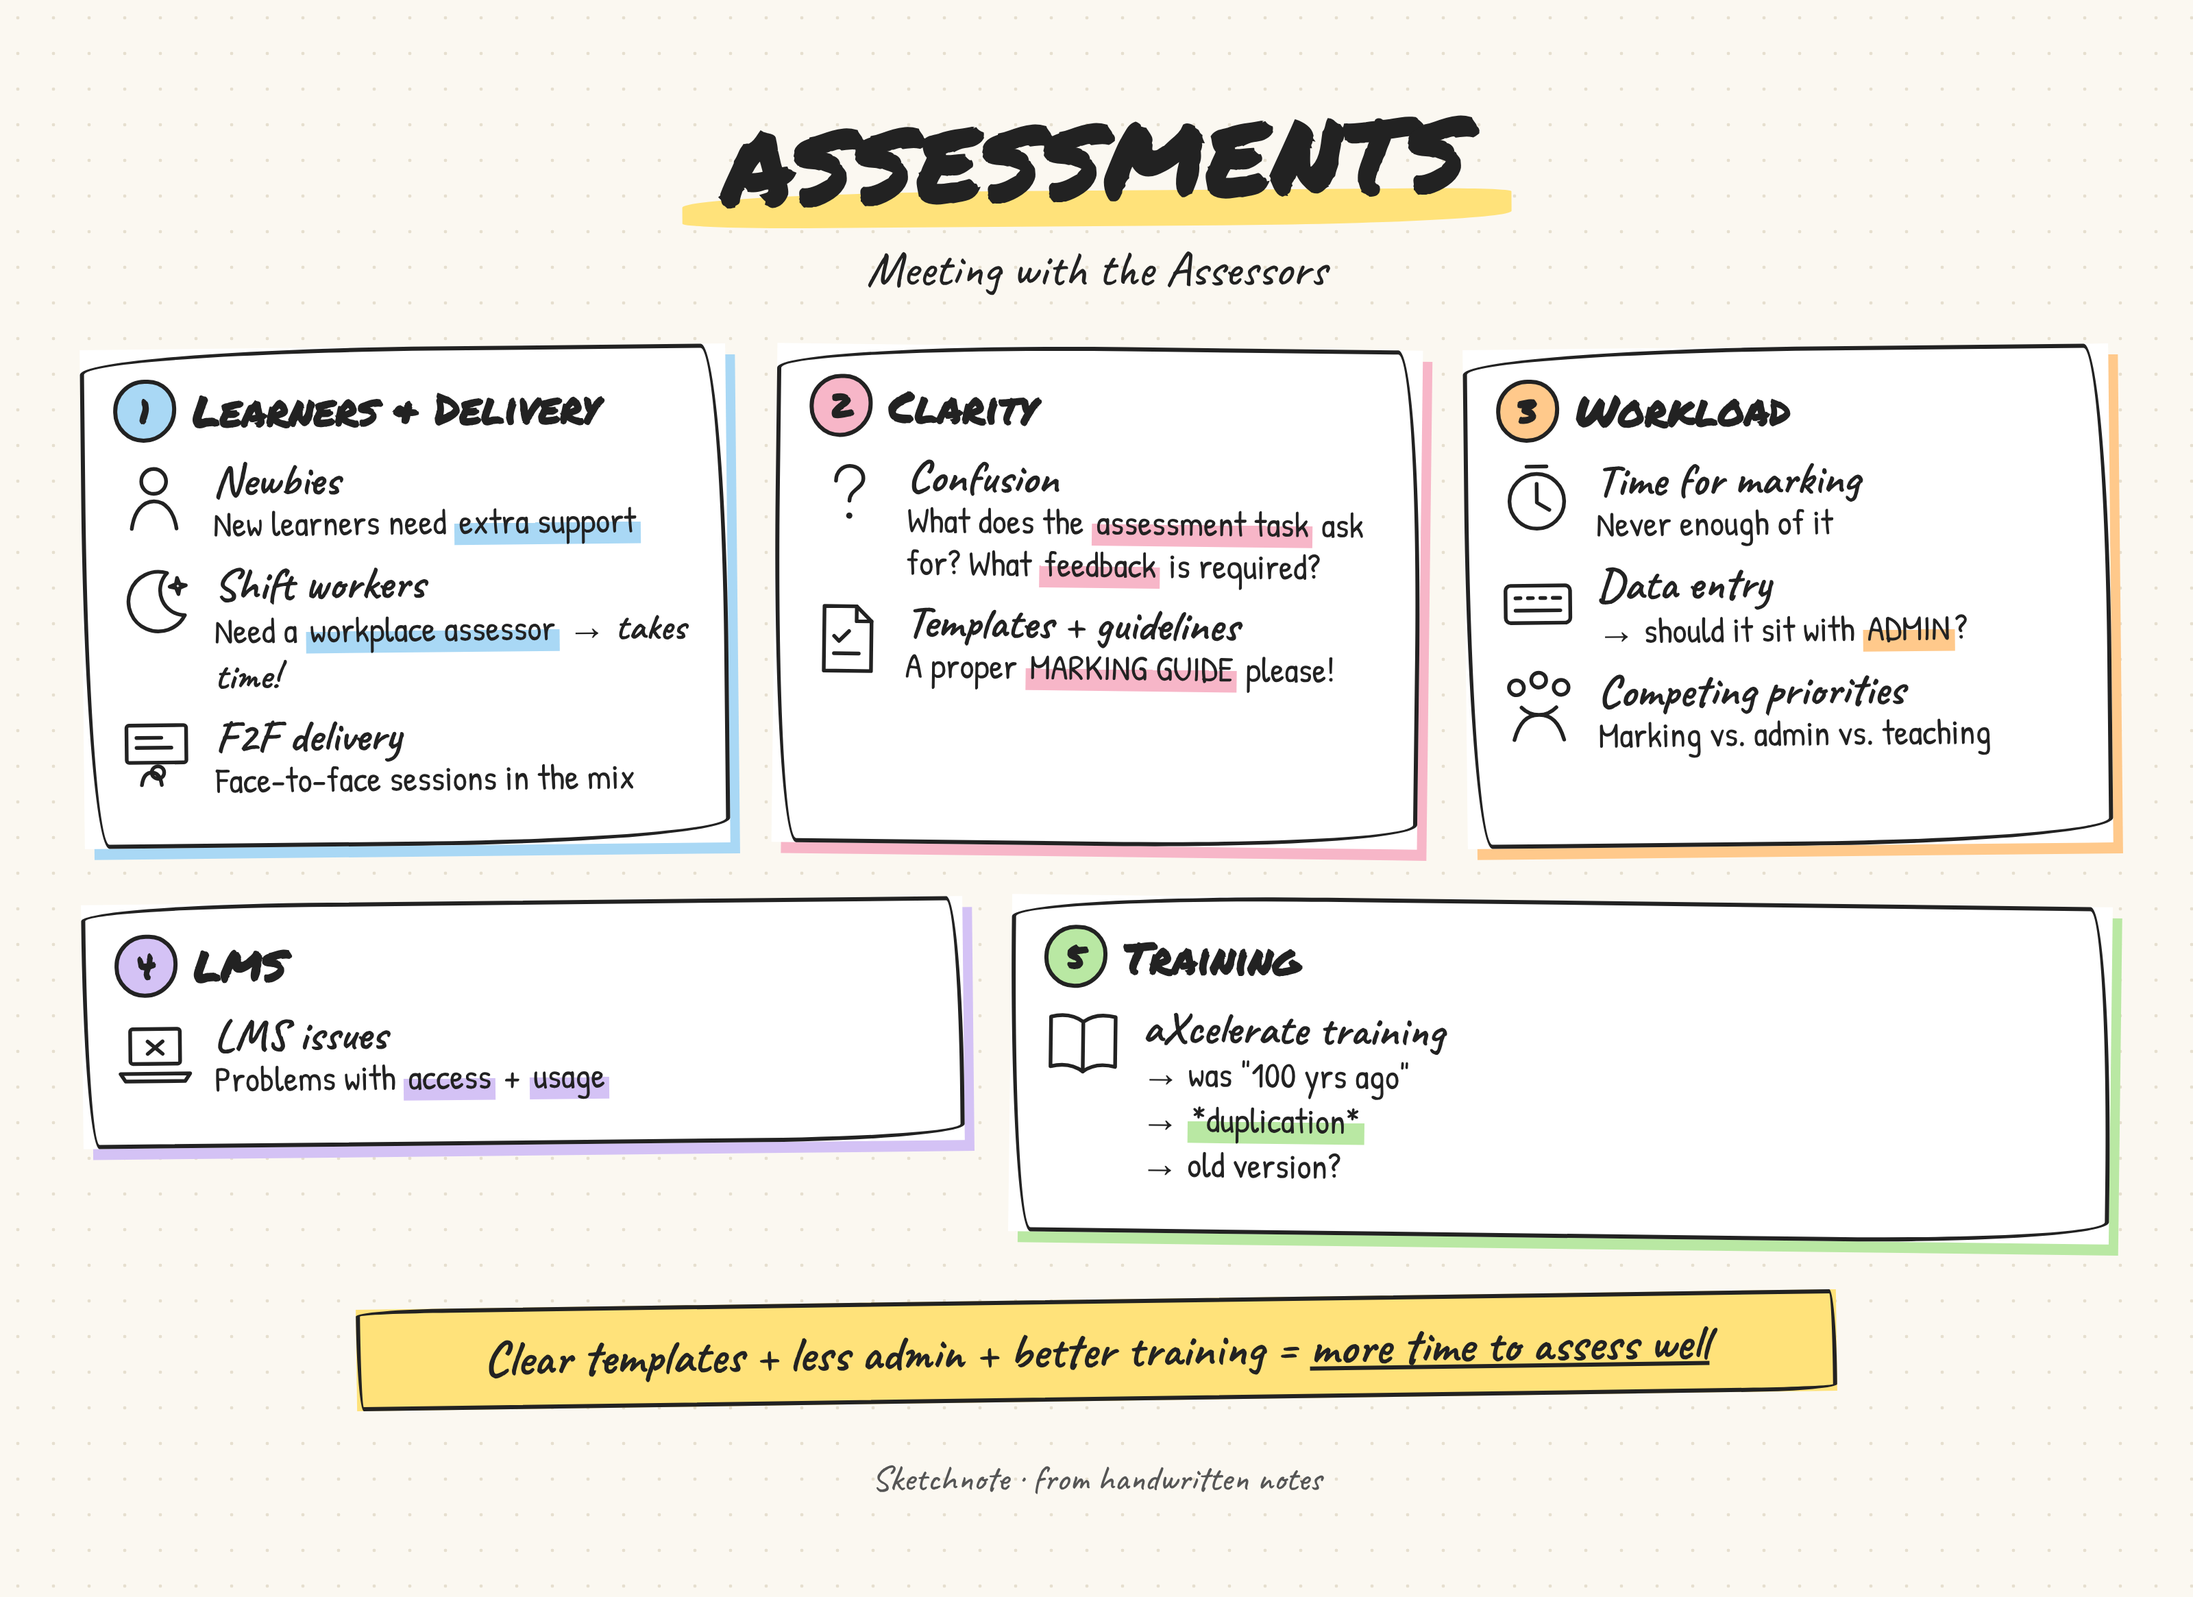
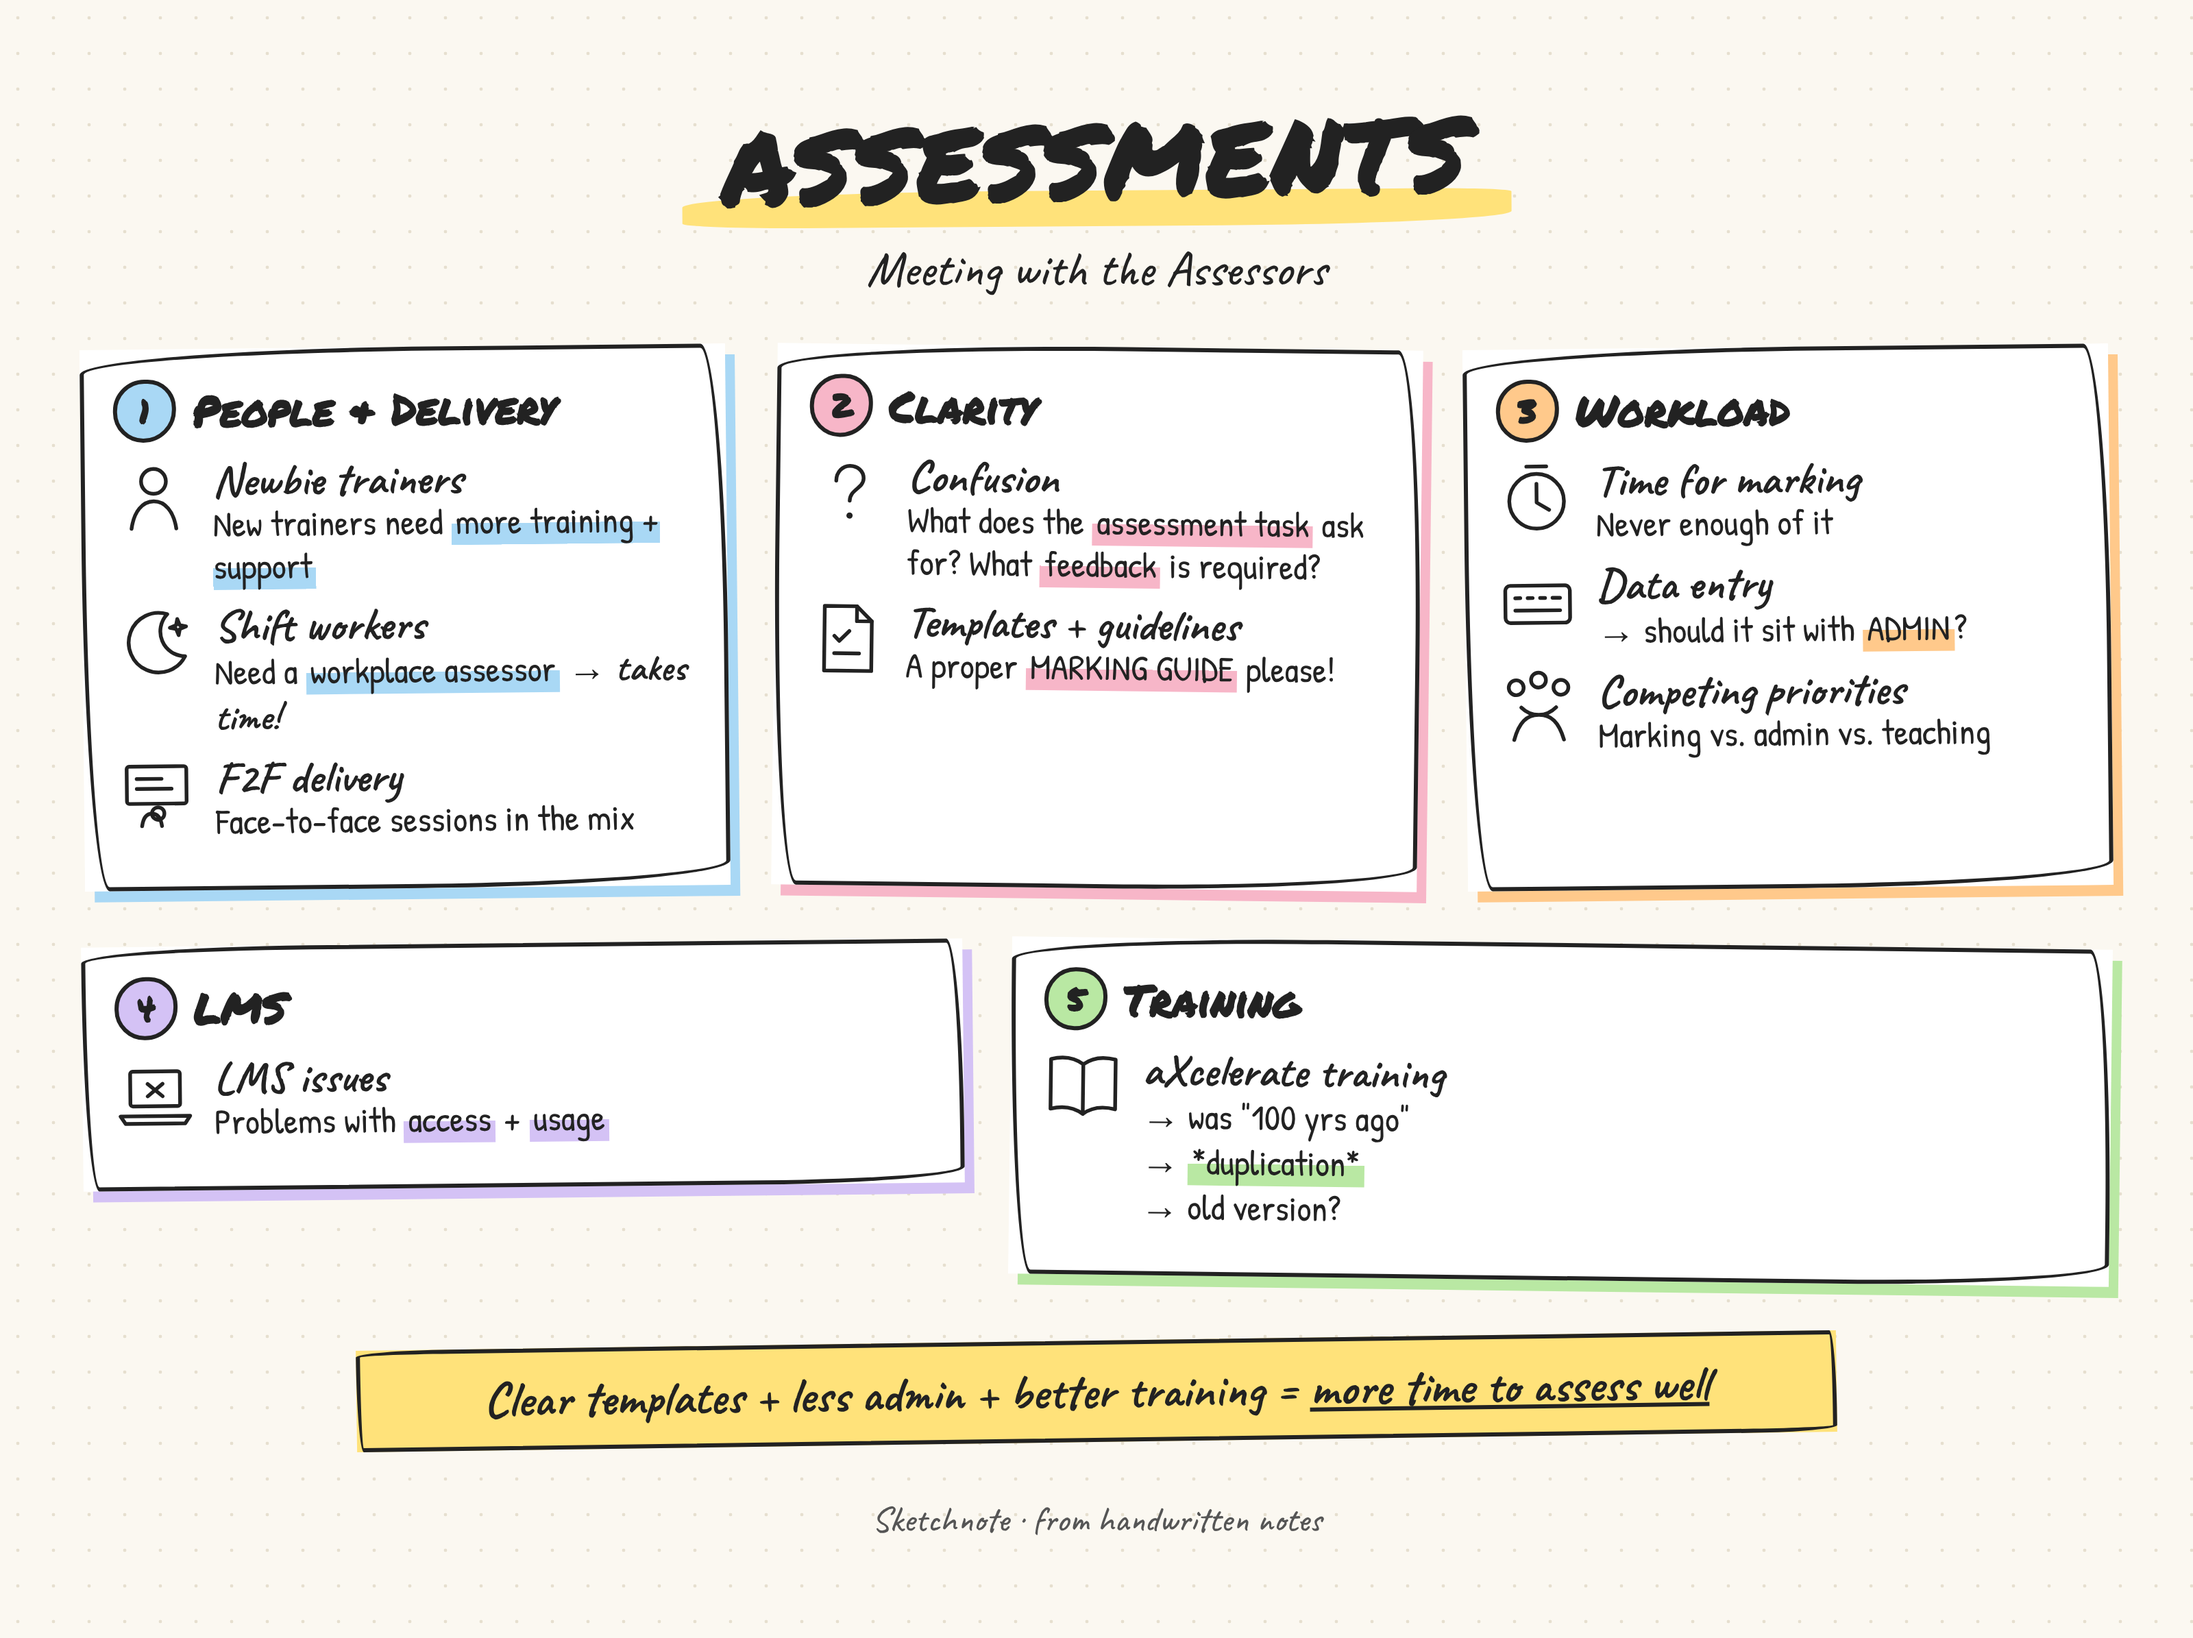
Clarify that 'newbie' refers to new trainers needing training and support
Claude-Session: https://claude.ai/code/session_01BPMecsaY7kEbXyqbrotznK

diff --git a/meeting-notes/sketchnotes/assessors-sketchnote.html b/meeting-notes/sketchnotes/assessors-sketchnote.html
@@ -31,7 +31,7 @@ body{background:var(--paper);color:var(--ink);font-family:'Patrick Hand',cursive
 </style></head><body>
 <header class="title"><h1>ASSESSMENTS</h1><p>Meeting with the Assessors</p></header>
 
-<div class="grid" style="grid-template-columns:1fr 1fr 1fr;margin-top:34px"><section class="card rough" style="--sh:var(--b);--hl:var(--b);"><h2><span class="num">1</span>Learners &amp; Delivery</h2><div class="item"><svg viewBox="0 0 64 64"><circle cx="32" cy="18" r="10" fill="none" stroke="#222" stroke-width="3" stroke-linecap="round" stroke-linejoin="round"/><path d="M14 56c2-14 9-22 18-22s16 8 18 22" fill="none" stroke="#222" stroke-width="3" stroke-linecap="round" stroke-linejoin="round"/></svg><div><b>Newbies</b>New learners need <span class='hl'>extra support</span></div></div><div class="item"><svg viewBox="0 0 64 64"><path d="M42 8a24 24 0 1 0 14 34A20 20 0 0 1 42 8z" fill="none" stroke="#222" stroke-width="3" stroke-linecap="round" stroke-linejoin="round"/><path d="M50 12l2 5 5 1-5 2-1 5-2-5-5-1 5-2z" fill="none" stroke="#222" stroke-width="3" stroke-linecap="round" stroke-linejoin="round"/></svg><div><b>Shift workers</b>Need a <span class='hl'>workplace assessor</span> <span class='arrow'>&rarr; takes time!</span></div></div><div class="item"><svg viewBox="0 0 64 64"><rect x="8" y="8" width="48" height="30" rx="2" fill="none" stroke="#222" stroke-width="3" stroke-linecap="round" stroke-linejoin="round"/><path d="M16 18h20M16 26h28M20 56c1-7 4-10 8-10s7 3 8 10M28 46a5 5 0 1 0 0-.1" fill="none" stroke="#222" stroke-width="3" stroke-linecap="round" stroke-linejoin="round"/></svg><div><b>F2F delivery</b>Face-to-face sessions in the mix</div></div></section><section class="card rough" style="--sh:var(--p);--hl:var(--p);"><h2><span class="num">2</span>Clarity</h2><div class="item"><svg viewBox="0 0 64 64"><path d="M22 22c0-7 5-12 11-12s11 4 11 10c0 8-11 9-11 18" fill="none" stroke="#222" stroke-width="3" stroke-linecap="round" stroke-linejoin="round"/><circle cx="33" cy="50" r="2.5" fill="#222"/></svg><div><b>Confusion</b>What does the <span class='hl'>assessment task</span> ask for? What <span class='hl'>feedback</span> is required?</div></div><div class="item"><svg viewBox="0 0 64 64"><path d="M14 6h26l12 12v40H14z" fill="none" stroke="#222" stroke-width="3" stroke-linecap="round" stroke-linejoin="round"/><path d="M40 6v12h12M22 30l4 4 8-8M22 44h20" fill="none" stroke="#222" stroke-width="3" stroke-linecap="round" stroke-linejoin="round"/></svg><div><b>Templates + guidelines</b>A proper <span class='hl'>MARKING GUIDE</span> please!</div></div></section><section class="card rough" style="--sh:var(--o);--hl:var(--o);"><h2><span class="num">3</span>Workload</h2><div class="item"><svg viewBox="0 0 64 64"><circle cx="32" cy="34" r="22" fill="none" stroke="#222" stroke-width="3" stroke-linecap="round" stroke-linejoin="round"/><path d="M32 20v15l10 6M24 6h16" fill="none" stroke="#222" stroke-width="3" stroke-linecap="round" stroke-linejoin="round"/></svg><div><b>Time for marking</b>Never enough of it</div></div><div class="item"><svg viewBox="0 0 64 64"><rect x="6" y="18" width="52" height="30" rx="4" fill="none" stroke="#222" stroke-width="3" stroke-linecap="round" stroke-linejoin="round"/><path d="M14 28h4M24 28h4M34 28h4M44 28h6M14 38h36" fill="none" stroke="#222" stroke-width="3" stroke-linecap="round" stroke-linejoin="round"/></svg><div><b>Data entry</b><span class='arrow'>&rarr;</span> should it sit with <span class='hl'>ADMIN</span>?</div></div><div class="item"><svg viewBox="0 0 64 64"><circle cx="14" cy="14" r="6" fill="none" stroke="#222" stroke-width="3" stroke-linecap="round" stroke-linejoin="round"/><circle cx="32" cy="8" r="6" fill="none" stroke="#222" stroke-width="3" stroke-linecap="round" stroke-linejoin="round"/><circle cx="50" cy="14" r="6" fill="none" stroke="#222" stroke-width="3" stroke-linecap="round" stroke-linejoin="round"/><path d="M12 56c4-14 10-20 20-20s16 6 20 20M18 30c4 4 8 6 14 6s10-2 14-6" fill="none" stroke="#222" stroke-width="3" stroke-linecap="round" stroke-linejoin="round"/></svg><div><b>Competing priorities</b>Marking vs. admin vs. teaching</div></div></section></div>
+<div class="grid" style="grid-template-columns:1fr 1fr 1fr;margin-top:34px"><section class="card rough" style="--sh:var(--b);--hl:var(--b);"><h2><span class="num">1</span>People &amp; Delivery</h2><div class="item"><svg viewBox="0 0 64 64"><circle cx="32" cy="18" r="10" fill="none" stroke="#222" stroke-width="3" stroke-linecap="round" stroke-linejoin="round"/><path d="M14 56c2-14 9-22 18-22s16 8 18 22" fill="none" stroke="#222" stroke-width="3" stroke-linecap="round" stroke-linejoin="round"/></svg><div><b>Newbie trainers</b>New trainers need <span class='hl'>more training + support</span></div></div><div class="item"><svg viewBox="0 0 64 64"><path d="M42 8a24 24 0 1 0 14 34A20 20 0 0 1 42 8z" fill="none" stroke="#222" stroke-width="3" stroke-linecap="round" stroke-linejoin="round"/><path d="M50 12l2 5 5 1-5 2-1 5-2-5-5-1 5-2z" fill="none" stroke="#222" stroke-width="3" stroke-linecap="round" stroke-linejoin="round"/></svg><div><b>Shift workers</b>Need a <span class='hl'>workplace assessor</span> <span class='arrow'>&rarr; takes time!</span></div></div><div class="item"><svg viewBox="0 0 64 64"><rect x="8" y="8" width="48" height="30" rx="2" fill="none" stroke="#222" stroke-width="3" stroke-linecap="round" stroke-linejoin="round"/><path d="M16 18h20M16 26h28M20 56c1-7 4-10 8-10s7 3 8 10M28 46a5 5 0 1 0 0-.1" fill="none" stroke="#222" stroke-width="3" stroke-linecap="round" stroke-linejoin="round"/></svg><div><b>F2F delivery</b>Face-to-face sessions in the mix</div></div></section><section class="card rough" style="--sh:var(--p);--hl:var(--p);"><h2><span class="num">2</span>Clarity</h2><div class="item"><svg viewBox="0 0 64 64"><path d="M22 22c0-7 5-12 11-12s11 4 11 10c0 8-11 9-11 18" fill="none" stroke="#222" stroke-width="3" stroke-linecap="round" stroke-linejoin="round"/><circle cx="33" cy="50" r="2.5" fill="#222"/></svg><div><b>Confusion</b>What does the <span class='hl'>assessment task</span> ask for? What <span class='hl'>feedback</span> is required?</div></div><div class="item"><svg viewBox="0 0 64 64"><path d="M14 6h26l12 12v40H14z" fill="none" stroke="#222" stroke-width="3" stroke-linecap="round" stroke-linejoin="round"/><path d="M40 6v12h12M22 30l4 4 8-8M22 44h20" fill="none" stroke="#222" stroke-width="3" stroke-linecap="round" stroke-linejoin="round"/></svg><div><b>Templates + guidelines</b>A proper <span class='hl'>MARKING GUIDE</span> please!</div></div></section><section class="card rough" style="--sh:var(--o);--hl:var(--o);"><h2><span class="num">3</span>Workload</h2><div class="item"><svg viewBox="0 0 64 64"><circle cx="32" cy="34" r="22" fill="none" stroke="#222" stroke-width="3" stroke-linecap="round" stroke-linejoin="round"/><path d="M32 20v15l10 6M24 6h16" fill="none" stroke="#222" stroke-width="3" stroke-linecap="round" stroke-linejoin="round"/></svg><div><b>Time for marking</b>Never enough of it</div></div><div class="item"><svg viewBox="0 0 64 64"><rect x="6" y="18" width="52" height="30" rx="4" fill="none" stroke="#222" stroke-width="3" stroke-linecap="round" stroke-linejoin="round"/><path d="M14 28h4M24 28h4M34 28h4M44 28h6M14 38h36" fill="none" stroke="#222" stroke-width="3" stroke-linecap="round" stroke-linejoin="round"/></svg><div><b>Data entry</b><span class='arrow'>&rarr;</span> should it sit with <span class='hl'>ADMIN</span>?</div></div><div class="item"><svg viewBox="0 0 64 64"><circle cx="14" cy="14" r="6" fill="none" stroke="#222" stroke-width="3" stroke-linecap="round" stroke-linejoin="round"/><circle cx="32" cy="8" r="6" fill="none" stroke="#222" stroke-width="3" stroke-linecap="round" stroke-linejoin="round"/><circle cx="50" cy="14" r="6" fill="none" stroke="#222" stroke-width="3" stroke-linecap="round" stroke-linejoin="round"/><path d="M12 56c4-14 10-20 20-20s16 6 20 20M18 30c4 4 8 6 14 6s10-2 14-6" fill="none" stroke="#222" stroke-width="3" stroke-linecap="round" stroke-linejoin="round"/></svg><div><b>Competing priorities</b>Marking vs. admin vs. teaching</div></div></section></div>
 <div class="grid" style="grid-template-columns:1fr 1.25fr;margin-top:40px;align-items:start"><section class="card rough" style="--sh:var(--v);--hl:var(--v);"><h2><span class="num">4</span>LMS</h2><div class="item"><svg viewBox="0 0 64 64"><rect x="12" y="12" width="40" height="28" rx="2" fill="none" stroke="#222" stroke-width="3" stroke-linecap="round" stroke-linejoin="round"/><path d="M4 48h56l-4 6H8z" fill="none" stroke="#222" stroke-width="3" stroke-linecap="round" stroke-linejoin="round"/><path d="M26 22l12 10M38 22L26 32" fill="none" stroke="#222" stroke-width="3" stroke-linecap="round" stroke-linejoin="round"/></svg><div><b>LMS issues</b>Problems with <span class='hl'>access</span> + <span class='hl'>usage</span></div></div></section><section class="card rough" style="--sh:var(--g);--hl:var(--g);"><h2><span class="num">5</span>Training</h2><div class="item"><svg viewBox="0 0 64 64"><path d="M32 14C24 8 14 8 6 10v40c8-2 18-2 26 4 8-6 18-6 26-4V10c-8-2-18-2-26 4zM32 14v40" fill="none" stroke="#222" stroke-width="3" stroke-linecap="round" stroke-linejoin="round"/></svg><div><b>aXcelerate training</b><span class='arrow'>&rarr;</span> was "100 yrs ago"<br><span class='arrow'>&rarr;</span> <span class='hl'>*duplication*</span><br><span class='arrow'>&rarr;</span> old version?</div></div></section></div>
 <div class="rough quote" style="margin:44px auto 0;width:1080px;background:var(--y);transform:rotate(-.8deg)">
  Clear templates + less admin + better training = <u>more time to assess well</u>

diff --git a/meeting-notes/sketchnotes/build.py b/meeting-notes/sketchnotes/build.py
@@ -90,8 +90,8 @@ def page(title, sub, body, foot):
 
 def assessors():
     cards = [
-        card(1, "Learners &amp; Delivery", "b",
-             item("person", "Newbies", "New learners need <span class='hl'>extra support</span>")
+        card(1, "People &amp; Delivery", "b",
+             item("person", "Newbie trainers", "New trainers need <span class='hl'>more training + support</span>")
              + item("moon", "Shift workers", "Need a <span class='hl'>workplace assessor</span> <span class='arrow'>&rarr; takes time!</span>")
              + item("class", "F2F delivery", "Face-to-face sessions in the mix")),
         card(2, "Clarity", "p",

diff --git a/meeting-notes/assessors-meeting.md b/meeting-notes/assessors-meeting.md
@@ -23,8 +23,8 @@
 
 ## Summary by theme
 
-### Learners and delivery
-- **New learners ("newbies")** need extra support.
+### People and delivery
+- **New trainers ("newbies")** need more training and support.
 - **Shift workers** are assessed by a workplace assessor, which **takes time** to arrange.
 - **Face-to-face (F2F) delivery** is part of the picture.
 
@@ -46,6 +46,7 @@
 - Some may be an **old version**.
 
 ## Possible follow-ups
+- [ ] Set up onboarding, training and support (e.g. mentoring) for new trainers.
 - [ ] Write a standard assessment template and marking guide that states the feedback expected.
 - [ ] Look at moving data entry from assessors to the admin team.
 - [ ] Refresh aXcelerate / LMS training, then remove duplicated and outdated material.
